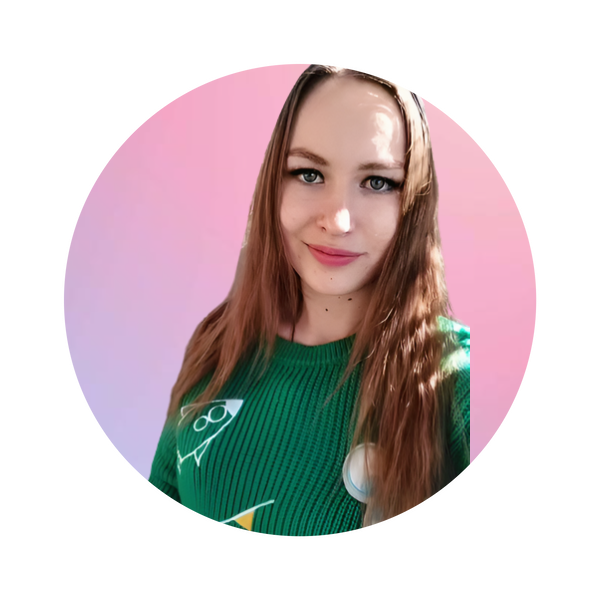
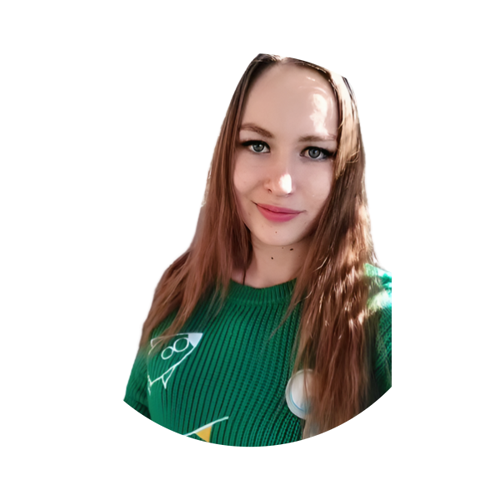
Fixed size of image

Changed region(s): [[0.09, 0.09, 0.51, 0.81], [0.69, 0.15, 0.9, 0.78]]

diff --git a/index.html b/index.html
@@ -9,13 +9,13 @@
   <link rel="stylesheet" href="style.css">
 </head>
 <body>
-  <div class="image" id="image"> </div>
+  <div class="image"></div>
   <css-doodle use="var(--rule)"></css-doodle>
   <script>
     (() => {
       const audio = new Audio('./assets/audio.mp3');
-      const imageDiv = document.querySelector('css-doodle');
-      imageDiv.addEventListener('click', () => {
+      const doodleDiv = document.querySelector('css-doodle');
+      doodleDiv.addEventListener('click', () => {
         if(!audio.currentTime) {
           audio.play();
         } else {

diff --git a/style.css b/style.css
@@ -12,11 +12,12 @@ html, body {
 }
 
 .image {
-  width: 450px;
-  height: 450px; 
-  background-image: url(./assets/my_crush.png);
+  width: 55vmin;
+  height: 55vmin; 
+  background-image: url(./assets/my_crush.png), radial-gradient(circle, rgba(148,187,233,1) 0%, rgba(238,174,202,1) 100%);
   background-repeat: no-repeat;
   background-position: center;
+  background-size: contain;
   position: absolute;
   border-radius: 50%;
 }
